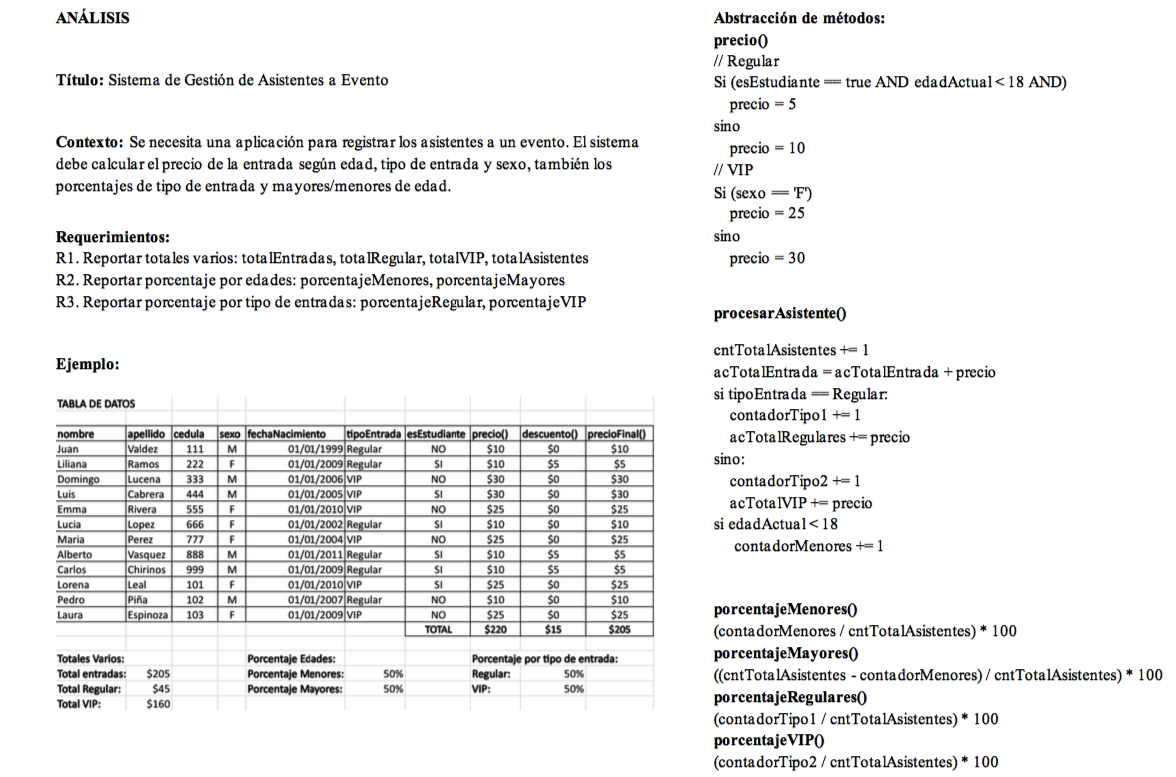
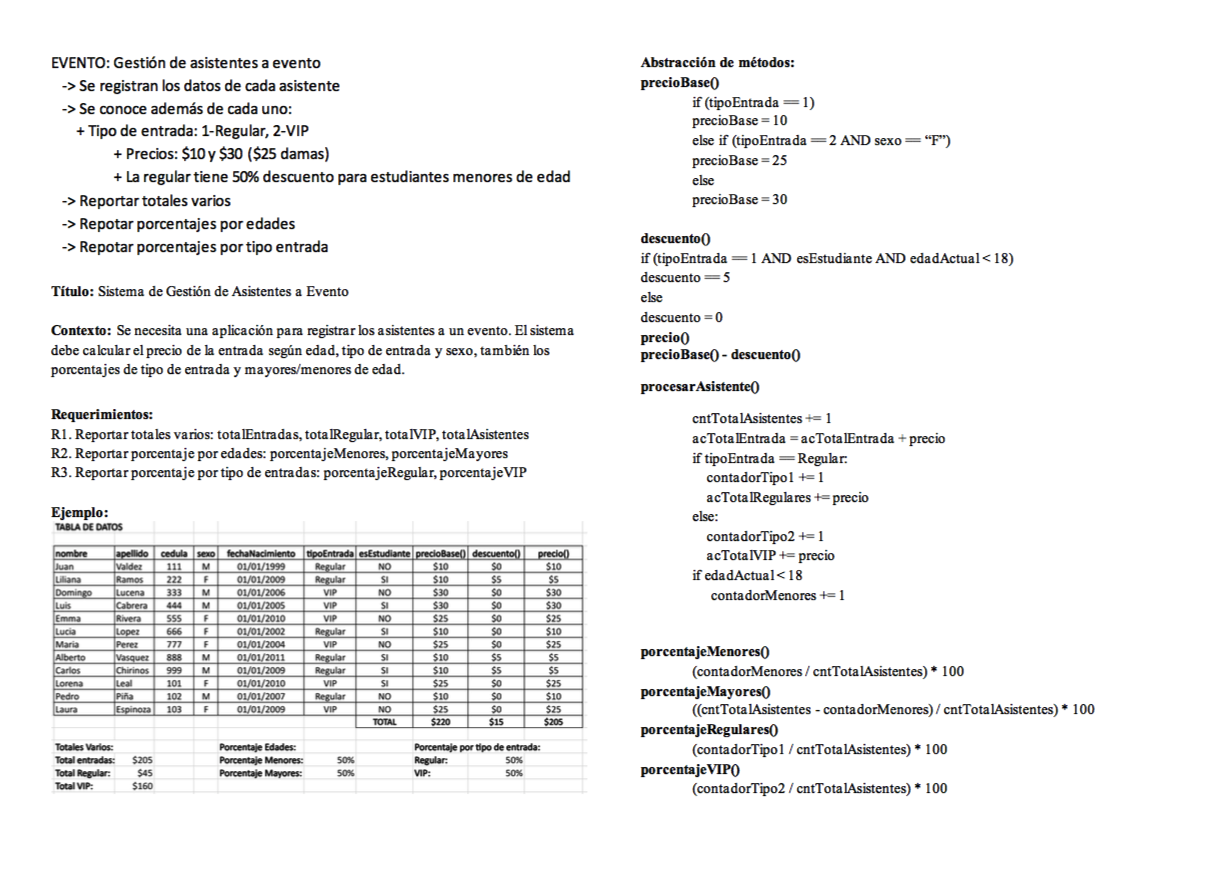
Se añadio el diagrama UML del proyecto en formato SVG, se eliminaron los archivos PNG y se actualizaron los métodos de la clase Cl_mAsistente para mejorar su funcionalidad y rendimiento. Además, se realizaron cambios en los archivos de distribución para reflejar las modificaciones realizadas en el c

Changed region(s): [[0.0306, 0.0, 1.0, 0.9884], [0.0306, 0.0, 0.1224, 0.0309]]

diff --git a/dist/models/Cl_mAsistente.js b/dist/models/Cl_mAsistente.js
@@ -18,16 +18,26 @@ export default class Cl_mAsistente extends Cl_mPersona {
             edad--;
         return edad;
     }
+    precioBase() {
+        if (this._tipoEntrada === 1) {
+            return 10;
+        }
+        else if (this._tipoEntrada === 2 && this.sexo.toUpperCase() === "F") {
+            return 25;
+        }
+        else if (this._tipoEntrada === 2) {
+            return 30;
+        }
+        return 0;
+    }
+    descuento() {
+        if (this._tipoEntrada === 1 && this._esEstudiante && this.edadActual() < 18) {
+            return 5;
+        }
+        return 0;
+    }
     precio() {
-        if (this._tipoEntrada === 1) { // Regular
-            // $10, con 50% descuento si estudiante y menor de edad
-            const esMenorEstudiante = this._esEstudiante && this.edadActual() < 18;
-            return esMenorEstudiante ? 5 : 10;
-        }
-        else { // VIP
-            // $30, $25 para damas (sexo 'F')
-            return this.sexo.toUpperCase() === "F" ? 25 : 30;
-        }
+        return this.precioBase() - this.descuento();
     }
 }
 //# sourceMappingURL=Cl_mAsistente.js.map

diff --git a/src/models/Cl_mAsistente.ts b/src/models/Cl_mAsistente.ts
@@ -21,14 +21,23 @@ export default class Cl_mAsistente extends Cl_mPersona {
         if (hoy < cumpleEsteAno) edad--;
         return edad;
     }
-    precio(): number {
-        if (this._tipoEntrada === 1) {  // Regular
-            // $10, con 50% descuento si estudiante y menor de edad
-            const esMenorEstudiante = this._esEstudiante && this.edadActual() < 18;
-            return esMenorEstudiante ? 5 : 10;
-        } else {  // VIP
-            // $30, $25 para damas (sexo 'F')
-            return this.sexo.toUpperCase() === "F" ? 25 : 30;
+    precioBase(): number {
+        if (this._tipoEntrada === 1) {
+            return 10;
+        } else if (this._tipoEntrada === 2 && this.sexo.toUpperCase() === "F") {
+            return 25;
+        } else if (this._tipoEntrada === 2) {
+            return 30;
         }
+        return 0;
+    }
+    descuento(): number {
+        if (this._tipoEntrada === 1 && this._esEstudiante && this.edadActual() < 18) {
+            return 5;
+        }
+        return 0;
+    }
+    precio(): number {
+        return this.precioBase() - this.descuento();
     }
 }
